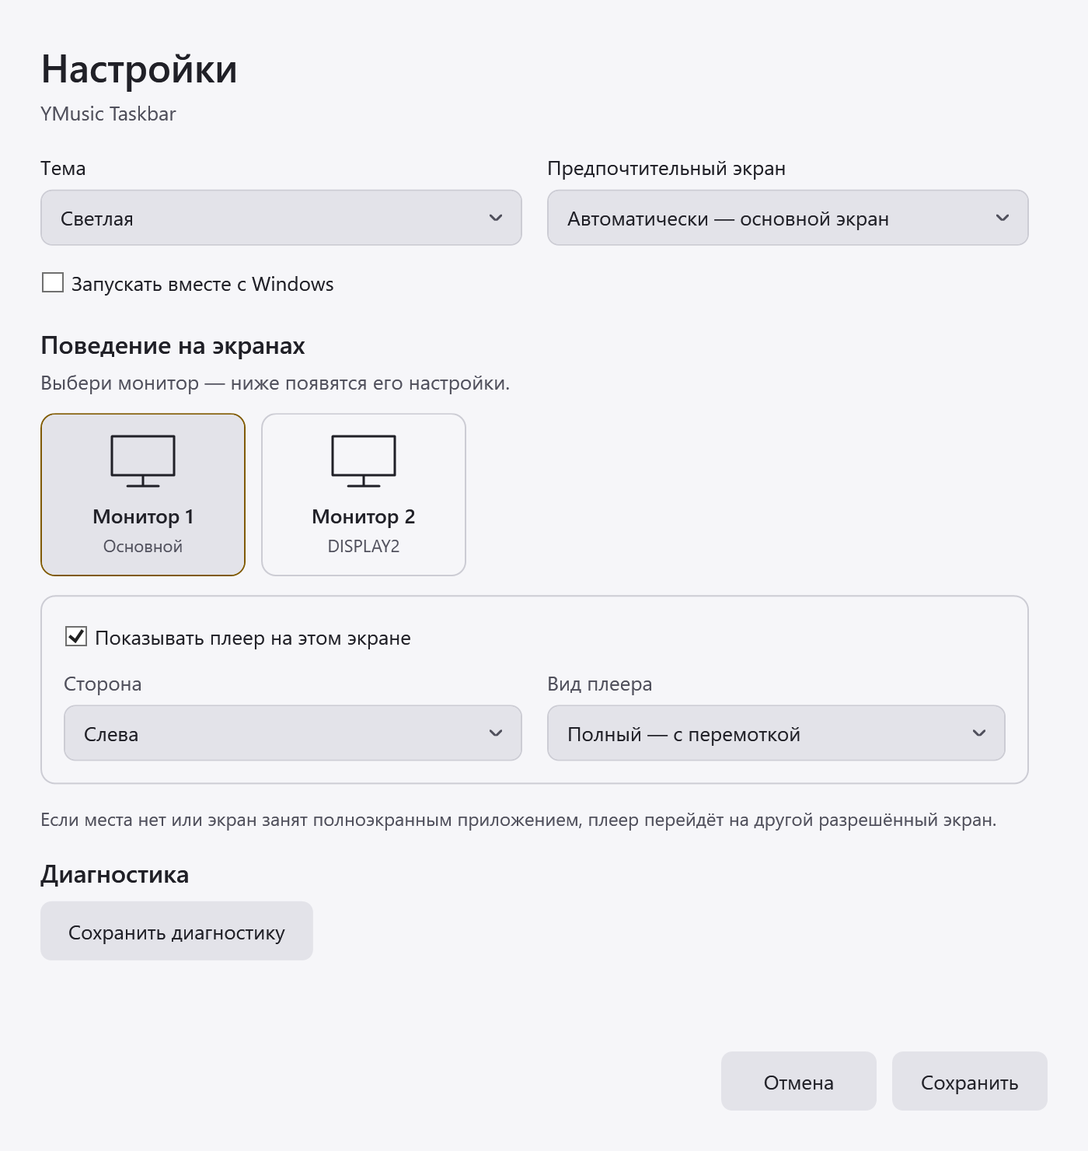
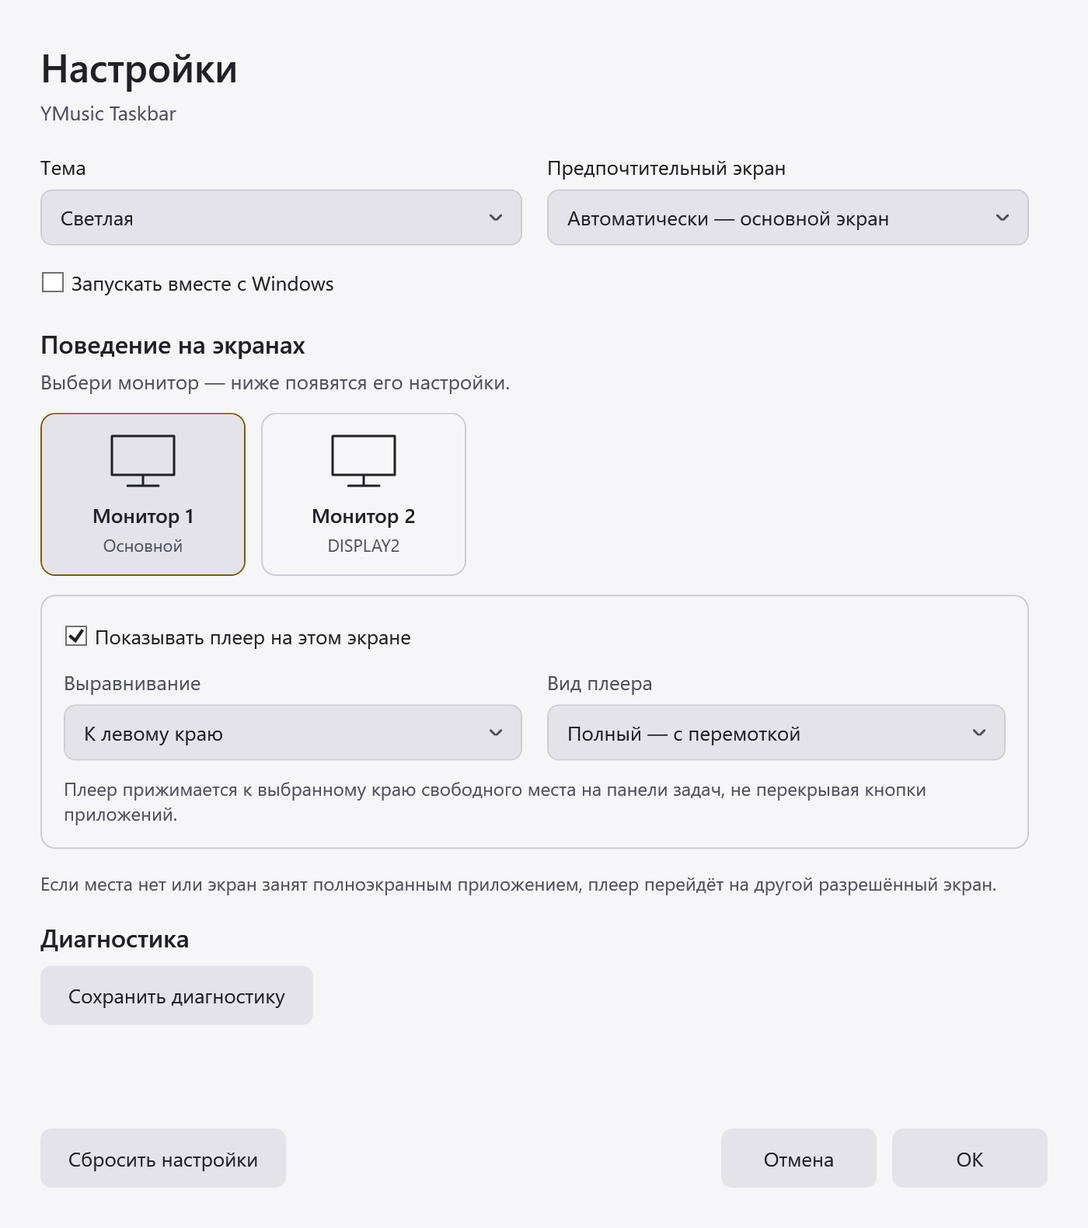
Apply settings immediately with cancel rollback and reset defaults

diff --git a/src/YMusicTaskbar.App/Views/SettingsWindow.xaml b/src/YMusicTaskbar.App/Views/SettingsWindow.xaml
@@ -1,5 +1,5 @@
 <Window x:Class="YMusicTaskbar.SettingsWindow" xmlns="http://schemas.microsoft.com/winfx/2006/xaml/presentation" xmlns:x="http://schemas.microsoft.com/winfx/2006/xaml"
- Title="Настройки — YMusic Taskbar" Width="700" Height="740" MinWidth="520" MinHeight="440" WindowStartupLocation="CenterScreen" ShowInTaskbar="False" Icon="/YMusicTaskbar;component/Assets/app.ico"
+ Title="Настройки — YMusic Taskbar" Width="700" Height="790" MinWidth="520" MinHeight="440" WindowStartupLocation="CenterScreen" ShowInTaskbar="False" Icon="/YMusicTaskbar;component/Assets/app.ico"
  Background="{DynamicResource PlayerSurface}" Foreground="{DynamicResource PlayerText}" FontFamily="Segoe UI" FontSize="13" ToolTipService.IsEnabled="False">
  <Window.Resources><ResourceDictionary><ResourceDictionary.MergedDictionaries><ResourceDictionary Source="/YMusicTaskbar;component/Views/SettingsStyles.xaml"/></ResourceDictionary.MergedDictionaries></ResourceDictionary></Window.Resources>
  <Grid Margin="24"><Grid.RowDefinitions><RowDefinition Height="Auto"/><RowDefinition Height="*"/><RowDefinition Height="Auto"/></Grid.RowDefinitions>
@@ -34,6 +34,6 @@
    <TextBlock Text="Диагностика" FontSize="16" FontWeight="SemiBold" Margin="0,0,0,8"/>
    <Button x:Name="DiagnosticsButton" Content="Сохранить диагностику" HorizontalAlignment="Left" Click="SaveDiagnostics" Margin="0,0,0,6"/>
   </StackPanel></ScrollViewer>
-  <Grid Grid.Row="2" Margin="0,16,0,0"><TextBlock x:Name="ErrorText" Foreground="{DynamicResource PlayerAccent}" TextWrapping="Wrap" Margin="0,0,230,0" VerticalAlignment="Center"/><StackPanel Orientation="Horizontal" HorizontalAlignment="Right"><Button Content="Отмена" IsCancel="True" Click="Cancel" Margin="0,0,10,0"/><Button Content="Сохранить" IsDefault="True" Click="Save"/></StackPanel></Grid>
+  <Grid Grid.Row="2" Margin="0,16,0,0"><Grid.RowDefinitions><RowDefinition Height="Auto"/><RowDefinition Height="Auto"/></Grid.RowDefinitions><TextBlock x:Name="ErrorText" Foreground="{DynamicResource PlayerAccent}" TextWrapping="Wrap" Margin="0,0,0,8" VerticalAlignment="Center"/><StackPanel Grid.Row="1" Orientation="Horizontal" HorizontalAlignment="Right"><Button x:Name="CancelButton" Content="Отмена" IsCancel="True" Click="Cancel" Margin="0,0,10,0"/><Button x:Name="OkButton" Content="OK" IsDefault="True" Click="Save"/></StackPanel><Button Grid.Row="1" x:Name="ResetButton" Content="Сбросить настройки" HorizontalAlignment="Left" VerticalAlignment="Bottom" Click="Reset"/></Grid>
  </Grid>
 </Window>

diff --git a/src/YMusicTaskbar.App/Views/SettingsWindow.xaml.cs b/src/YMusicTaskbar.App/Views/SettingsWindow.xaml.cs
@@ -1,5 +1,6 @@
 using System;
 using System.Collections.Generic;
+using System.ComponentModel;
 using System.Linq;
 using System.Text.Json;
 using System.Threading.Tasks;
@@ -9,51 +10,114 @@ namespace YMusicTaskbar;
 
 public partial class SettingsWindow : Window
 {
-    private readonly Settings draft;
+    private Settings draft;
+    private readonly Settings original;
+    private readonly bool originalStartup;
     private readonly Func<Task> saveDiagnostics;
     private readonly Action<Settings, bool> save;
     private readonly string[] monitors;
     private string? selectedMonitor;
-    private bool loadingProfile;
+    private bool loadingProfile, ready, accepted, changed;
+    private string? appliedState;
+
+    private static Settings Copy(Settings settings) => JsonSerializer.Deserialize<Settings>(JsonSerializer.Serialize(settings))!;
+
     public SettingsWindow(Settings settings, IEnumerable<string> monitors, string? primary, bool startup, Action<Settings, bool> save, Func<Task>? saveDiagnostics = null)
     {
-        draft = JsonSerializer.Deserialize<Settings>(JsonSerializer.Serialize(settings))!;
+        original = Copy(settings); originalStartup = startup; draft = Copy(settings);
         this.saveDiagnostics = saveDiagnostics ?? (() => Task.CompletedTask);
         this.save = save; this.monitors = monitors.Distinct().ToArray();
         InitializeComponent();
-        ThemeChoice.SelectedIndex = (int)draft.Theme;
-        ThemeService.Apply(Resources, draft.Theme);
-        ThemeChoice.SelectionChanged += (_, _) => ThemeService.Apply(Resources, (ThemeMode)ThemeChoice.SelectedIndex);
         PreferredChoice.Items.Add("Автоматически — основной экран");
         foreach (string name in this.monitors) PreferredChoice.Items.Add(name + (name == primary ? " (основной)" : ""));
-        PreferredChoice.SelectedIndex = Math.Max(0, Array.IndexOf(this.monitors, draft.PreferredMonitor) + 1);
-        StartupChoice.IsChecked = startup;
         foreach (string name in this.monitors) draft.Monitors[name] = draft.ProfileFor(name);
         MonitorSelector.ItemsSource = this.monitors.Select((id, index) => new MonitorTile(id, $"Монитор {index + 1}", id == primary ? "Основной" : id.Replace(@"\\.\", ""))).ToArray();
         MonitorSelector.SelectedIndex = Math.Max(0, Array.IndexOf(this.monitors, draft.PreferredMonitor ?? primary));
+        LoadControls(startup);
         ProfileEditor.IsEnabled = this.monitors.Length > 0;
         MaxHeight = Math.Max(MinHeight, SystemParameters.WorkArea.Height - 24);
         Height = Math.Min(Height, MaxHeight);
+        ThemeChoice.SelectionChanged += GeneralChanged;
+        PreferredChoice.SelectionChanged += GeneralChanged;
+        StartupChoice.Checked += GeneralChanged;
+        StartupChoice.Unchecked += GeneralChanged;
+        ready = true;
+        appliedState = StateKey();
     }
-    private void SelectMonitor(object sender, SelectionChangedEventArgs e)
+    private string StateKey() => JsonSerializer.Serialize(draft) + "|" + (StartupChoice.IsChecked == true);
+
+    private void LoadControls(bool startup)
+    {
+        loadingProfile = true;
+        try
+        {
+            ThemeChoice.SelectedIndex = (int)draft.Theme;
+            ThemeService.Apply(Resources, draft.Theme);
+            PreferredChoice.SelectedIndex = Math.Max(0, Array.IndexOf(monitors, draft.PreferredMonitor) + 1);
+            StartupChoice.IsChecked = startup;
+            LoadProfile();
+        }
+        finally { loadingProfile = false; }
+    }
+    private void SelectMonitor(object sender, SelectionChangedEventArgs e) => LoadProfile();
+    private void LoadProfile()
     {
         if (MonitorSelector.SelectedItem is not MonitorTile tile) return;
+        bool wasLoading = loadingProfile;
         selectedMonitor = tile.Id; loadingProfile = true;
-        var profile = draft.ProfileFor(tile.Id);
-        EnabledChoice.IsChecked = profile.Enabled;
-        SideChoice.SelectedIndex = (int)profile.Side;
-        LayoutChoice.SelectedIndex = profile.Compact ? 1 : 0;
-        System.Windows.Automation.AutomationProperties.SetName(SideChoice, "Выравнивание: " + tile.Id);
-        System.Windows.Automation.AutomationProperties.SetName(LayoutChoice, "Вид: " + tile.Id);
-        loadingProfile = false;
+        try
+        {
+            var profile = draft.ProfileFor(tile.Id);
+            EnabledChoice.IsChecked = profile.Enabled;
+            SideChoice.SelectedIndex = (int)profile.Side;
+            LayoutChoice.SelectedIndex = profile.Compact ? 1 : 0;
+            System.Windows.Automation.AutomationProperties.SetName(SideChoice, "Выравнивание: " + tile.Id);
+            System.Windows.Automation.AutomationProperties.SetName(LayoutChoice, "Вид: " + tile.Id);
+        }
+        finally { loadingProfile = wasLoading; }
     }
     private void ProfileChanged(object sender, RoutedEventArgs e)
     {
-        if (loadingProfile || selectedMonitor is null) return;
+        if (!ready || loadingProfile || selectedMonitor is null) return;
         var profile = draft.Monitors[selectedMonitor];
         profile.Enabled = EnabledChoice.IsChecked == true;
         profile.Side = (PlayerSide)Math.Max(0, SideChoice.SelectedIndex);
         profile.Compact = LayoutChoice.SelectedIndex == 1;
+        ApplyLive();
+    }
+    private void GeneralChanged(object sender, RoutedEventArgs e)
+    {
+        if (!ready || loadingProfile) return;
+        ApplyLive();
+    }
+    private bool ApplyLive()
+    {
+        draft.Theme = (ThemeMode)Math.Max(0, ThemeChoice.SelectedIndex);
+        draft.PreferredMonitor = PreferredChoice.SelectedIndex > 0 ? monitors[PreferredChoice.SelectedIndex - 1] : null;
+        ThemeService.Apply(Resources, draft.Theme);
+        if (monitors.Length > 0 && monitors.All(name => !draft.ProfileFor(name).Enabled))
+        { ErrorText.Text = "Выберите хотя бы один экран."; return false; }
+        string state = StateKey();
+        try
+        {
+            if (state != appliedState)
+            {
+                // The runtime owns its copy; later edits must not change it before validation.
+                changed = true;
+                save(Copy(draft), StartupChoice.IsChecked == true);
+                appliedState = state;
+            }
+            ErrorText.Text = "";
+            return true;
+        }
+        catch (Exception exception) { appliedState = null; ErrorText.Text = exception.Message; return false; }
+    }
+    private void Reset(object sender, RoutedEventArgs e)
+    {
+        draft = new Settings();
+        foreach (string monitor in monitors) draft.Monitors[monitor] = draft.ProfileFor(monitor);
+        LoadControls(false);
+        ApplyLive();
     }
     private async void SaveDiagnostics(object sender, RoutedEventArgs e)
     {
@@ -65,10 +129,17 @@ public partial class SettingsWindow : Window
     private void Cancel(object sender, RoutedEventArgs e) => Close();
     private void Save(object sender, RoutedEventArgs e)
     {
-        if (monitors.Length > 0 && monitors.All(name => !draft.ProfileFor(name).Enabled)) { ErrorText.Text = "Выберите хотя бы один экран."; return; }
-        draft.Theme = (ThemeMode)ThemeChoice.SelectedIndex;
-        draft.PreferredMonitor = PreferredChoice.SelectedIndex > 0 ? monitors[PreferredChoice.SelectedIndex - 1] : null;
-        try { save(draft, StartupChoice.IsChecked == true); Close(); }
-        catch (Exception exception) { ErrorText.Text = exception.Message; }
+        if (!ApplyLive()) return;
+        accepted = true;
+        Close();
+    }
+    protected override void OnClosing(CancelEventArgs e)
+    {
+        if (!accepted && changed)
+        {
+            try { save(Copy(original), originalStartup); changed = false; }
+            catch (Exception exception) { ErrorText.Text = "Не удалось вернуть настройки: " + exception.Message; e.Cancel = true; }
+        }
+        base.OnClosing(e);
     }
 }

diff --git a/tests/YMusicTaskbar.App.Tests/SettingsScenarios.cs b/tests/YMusicTaskbar.App.Tests/SettingsScenarios.cs
@@ -1,0 +1,110 @@
+using System.Windows;
+using System.Windows.Controls;
+using YMusicTaskbar;
+
+namespace YMusicTaskbar.AppTests;
+
+internal static class SettingsScenarios
+{
+    public static void Run(Action<bool, string> check)
+    {
+        var original = new Settings { Theme = ThemeMode.Light, PreferredMonitor = "B", Compact = true };
+        original.Monitors["A"] = new MonitorProfile { Side = PlayerSide.Right, Compact = true };
+        original.Monitors["B"] = new MonitorProfile { Side = PlayerSide.Left, Compact = false };
+        Settings? applied = null; bool startup = true; int calls = 0;
+        SettingsWindow NewDialog(bool launch = true) => new(original, new[] { "A", "B" }, "A", launch,
+            (settings, value) => { applied = settings; startup = value; calls++; });
+        T Element<T>(SettingsWindow window, string name) where T : FrameworkElement => (T)window.FindName(name);
+        void Click(SettingsWindow window, string name) => Element<Button>(window, name).RaiseEvent(new RoutedEventArgs(Button.ClickEvent));
+
+        var dialog = NewDialog();
+        check(calls == 0, "Opening settings does not persist or alter startup");
+        Element<ComboBox>(dialog, "ThemeChoice").SelectedIndex = (int)ThemeMode.Dark;
+        check(calls == 1 && applied is { Theme: ThemeMode.Dark }, "Theme change applies before closing settings");
+        Element<CheckBox>(dialog, "StartupChoice").IsChecked = false;
+        check(!startup, "Startup checkbox applies immediately");
+        Element<ComboBox>(dialog, "PreferredChoice").SelectedIndex = 1;
+        check(applied?.PreferredMonitor == "A", "Preferred display changes immediately");
+        var tiles = Element<ListBox>(dialog, "MonitorSelector");
+        int beforeSelection = calls;
+        tiles.SelectedIndex = 0;
+        check(calls == beforeSelection, "Selecting a monitor tile alone does not save settings");
+        Element<ComboBox>(dialog, "SideChoice").SelectedIndex = 0;
+        check(applied?.Monitors["A"].Side == PlayerSide.Left, "Per-monitor alignment applies immediately");
+        var lastValid = applied;
+        Element<CheckBox>(dialog, "EnabledChoice").IsChecked = false;
+        tiles.SelectedIndex = 1;
+        Element<CheckBox>(dialog, "EnabledChoice").IsChecked = false;
+        check(applied?.Monitors["B"].Enabled == true && Element<TextBlock>(dialog, "ErrorText").Text.Length > 0,
+            "Disabling the last display leaves the previous valid runtime settings intact");
+        check(lastValid?.Monitors["A"].Enabled == true, "Later draft mutations never alter previously applied profile objects");
+        Element<CheckBox>(dialog, "EnabledChoice").IsChecked = true;
+        Click(dialog, "CancelButton");
+        check(applied is { Theme: ThemeMode.Light, PreferredMonitor: "B", Compact: true } && startup
+            && applied.Monitors["A"].Side == PlayerSide.Right && applied.Monitors["A"].Enabled,
+            "Cancel restores all opening settings and startup after live edits");
+
+        dialog = NewDialog();
+        Click(dialog, "ResetButton");
+        check(applied is { Theme: ThemeMode.System, PreferredMonitor: null, Compact: false } && !startup
+            && applied.Monitors.Count == 2 && applied.Monitors.Values.All(p => p.Enabled && !p.Compact && p.Side == PlayerSide.Left),
+            "Reset immediately applies default theme, displays, layout, alignment and startup");
+        check(Element<ListBox>(dialog, "MonitorSelector").SelectedIndex == 1 && Element<ComboBox>(dialog, "LayoutChoice").SelectedIndex == 0,
+            "Reset updates selected monitor controls without changing selected tile");
+        dialog.Close();
+        check(applied?.Theme == ThemeMode.Light && applied.PreferredMonitor == "B" && startup,
+            "Closing settings without OK rolls back reset as well as ordinary edits");
+
+        dialog = NewDialog();
+        Element<ComboBox>(dialog, "ThemeChoice").SelectedIndex = (int)ThemeMode.Dark;
+        int beforeOk = calls;
+        Click(dialog, "OkButton");
+        check(applied?.Theme == ThemeMode.Dark && calls == beforeOk, "OK retains live edits without reapplying or rolling back");
+        check(original.Theme == ThemeMode.Light && original.Monitors["A"].Side == PlayerSide.Right,
+            "Live editing and reset preserve caller-owned opening settings");
+
+        int beforeUnchanged = calls;
+        dialog = NewDialog();
+        Click(dialog, "CancelButton");
+        check(calls == beforeUnchanged, "Cancel without edits does not rewrite settings");
+
+        bool failRestore = true, closed = false;
+        dialog = new SettingsWindow(original, new[] { "A", "B" }, "A", true, (settings, value) =>
+        {
+            if (failRestore && settings.Theme == ThemeMode.Light) throw new System.IO.IOException("Restore failed");
+            applied = settings; startup = value;
+        });
+        dialog.Closed += (_, _) => closed = true;
+        Element<ComboBox>(dialog, "ThemeChoice").SelectedIndex = (int)ThemeMode.Dark;
+        Click(dialog, "CancelButton");
+        check(!closed && Element<TextBlock>(dialog, "ErrorText").Text.Contains("Restore failed"),
+            "Rollback failure leaves settings open with a visible error");
+        failRestore = false;
+        Click(dialog, "CancelButton");
+        check(closed && applied?.Theme == ThemeMode.Light && startup, "Cancel retries a failed rollback before closing");
+
+        bool failOnce = true, registered = false;
+        dialog = new SettingsWindow(original, new[] { "A", "B" }, "A", false, (_, value) =>
+        {
+            registered = value;
+            if (failOnce) { failOnce = false; throw new System.IO.IOException("Partial apply failed"); }
+        });
+        Element<CheckBox>(dialog, "StartupChoice").IsChecked = true;
+        Element<CheckBox>(dialog, "StartupChoice").IsChecked = false;
+        check(!registered && Element<TextBlock>(dialog, "ErrorText").Text.Length == 0,
+            "Returning to a prior value after partial apply failure retries the actual change");
+        Click(dialog, "OkButton");
+
+        bool fail = true;
+        dialog = new SettingsWindow(original, new[] { "A", "B" }, "A", true, (settings, value) =>
+        {
+            if (fail) throw new System.IO.IOException("Cannot write settings");
+            applied = settings; startup = value;
+        });
+        Element<ComboBox>(dialog, "ThemeChoice").SelectedIndex = (int)ThemeMode.Dark;
+        check(Element<TextBlock>(dialog, "ErrorText").Text == "Cannot write settings", "Live apply failure remains visible in settings");
+        fail = false;
+        Click(dialog, "OkButton");
+        check(applied?.Theme == ThemeMode.Dark, "OK retries a previously failed live change before accepting");
+    }
+}

diff --git a/tests/YMusicTaskbar.App.Tests/LayoutScenarios.cs b/tests/YMusicTaskbar.App.Tests/LayoutScenarios.cs
@@ -44,7 +44,7 @@ internal static class LayoutScenarios
                 check(((System.Windows.Controls.TextBlock)dialog.FindName("ErrorText")).Text == "diagnostic test" && diagnosticButton.IsEnabled, "Diagnostic failure is displayed and button becomes available again");
                 var choice = (System.Windows.Controls.ComboBox)dialog.FindName("ThemeChoice");
                 choice.SelectedIndex = (int)ThemeMode.Dark;
-                check(settings.Theme == ThemeMode.Light && saved is null, "Settings edits remain isolated until save");
+                check(settings.Theme == ThemeMode.Light && saved is { Theme: ThemeMode.Dark }, "Settings edits apply immediately without mutating the opening snapshot");
                 check(((SolidColorBrush)dialog.Resources["PlayerText"]).Color.R > 200, "Settings theme preview updates immediately");
                 var selector = (System.Windows.Controls.ListBox)dialog.FindName("MonitorSelector");
                 var side = (System.Windows.Controls.ComboBox)dialog.FindName("SideChoice");
@@ -77,8 +77,9 @@ internal static class LayoutScenarios
                 var footer = (System.Windows.Controls.Grid)((System.Windows.Controls.Grid)dialog.Content).Children[2];
                 var buttons = (System.Windows.Controls.StackPanel)footer.Children[1];
                 ((System.Windows.Controls.Button)buttons.Children[1]).RaiseEvent(new RoutedEventArgs(System.Windows.Controls.Button.ClickEvent));
-                check(saved is { Theme: ThemeMode.Dark } && launch && saved.Monitors["Screen A"].Compact && !saved.Monitors["Screen B"].Compact && !saved.Monitors["Screen C"].Enabled && saved.Monitors["Screen C"].Side == PlayerSide.Right, "Save submits theme, startup and independent monitor profiles");
+                check(saved is { Theme: ThemeMode.Dark } && launch && saved.Monitors["Screen A"].Compact && !saved.Monitors["Screen B"].Compact && !saved.Monitors["Screen C"].Enabled && saved.Monitors["Screen C"].Side == PlayerSide.Right, "OK retains immediately applied theme, startup and independent monitor profiles");
                 check(settings.Monitors.Count == 1 && settings.Monitors["Screen A"].Compact, "Editing clone does not mutate original profiles");
+                SettingsScenarios.Run(check);
                 ThemeService.Apply(window.Resources, ThemeMode.Light);
                 check(((SolidColorBrush)((System.Windows.Controls.TextBlock)window.FindName("Track")).Foreground).Color.R < 80, "Light player theme uses dark readable text");
                 check(((SolidColorBrush)((System.Windows.Shapes.Path)window.FindName("PlayIcon")).Fill).Color.R < 180, "Light accent is dark enough for a light taskbar");

diff --git a/src/YMusicTaskbar.App/Hosting/PlayerRuntime.cs b/src/YMusicTaskbar.App/Hosting/PlayerRuntime.cs
@@ -79,7 +79,7 @@ internal sealed class PlayerRuntime : IDisposable
         settingsWindow = new SettingsWindow(settings, System.Windows.Forms.Screen.AllScreens.Select(s => s.DeviceName),
             System.Windows.Forms.Screen.PrimaryScreen?.DeviceName, startup.Enabled, (draft, launch) =>
             {
-                startup.SetEnabled(launch);
+                if (startup.Enabled != launch) startup.SetEnabled(launch);
                 store.Save(draft);
                 settings.Theme = draft.Theme; settings.PreferredMonitor = draft.PreferredMonitor;
                 settings.Compact = draft.Compact; settings.Monitors = draft.Monitors;

diff --git a/USAGE.md b/USAGE.md
@@ -23,9 +23,9 @@
 - **Для каждого экрана:** слева / справа и полный / компактный вид. Компактный режим убирает дорожку перемотки.
 - **Автозапуск:** необязательный запуск вместе с Windows.
 
-Выбирайте экран в ряду плиток с иконками мониторов: ниже отображаются только его параметры. Переключение плиток сохраняет выбранные значения до применения.
+Выбирайте экран в ряду плиток с иконками мониторов: ниже отображаются только его параметры. Настройки каждого экрана применяются сразу.
 
-Нажмите **«Сохранить»**, чтобы применить изменения. **«Отмена»** их отбрасывает.
+**OK** оставляет изменения и закрывает окно. **«Отмена»** или закрытие крестиком возвращает настройки на момент открытия окна. **«Сбросить настройки»** сразу включает значения по умолчанию, включая отключение автозапуска; сброс тоже можно отменить.
 
 Сторона выбирается внутри свободной области панели задач. При появлении новых кнопок плеер сдвигается или сужается. Если места нет или экран занят полноэкранным приложением, он переходит на другой разрешённый экран либо скрывается. Поддерживается горизонтальная панель задач; при маленьких значках используйте компактный режим.
 

diff --git a/CHANGELOG.md b/CHANGELOG.md
@@ -2,6 +2,8 @@
 
 ## 0.5.0
 
+- Настройки применяются сразу; OK оставляет изменения, Отмена возвращает прежние значения. Добавлен сброс настроек.
+
 - Выбор экрана плитками и один блок настроек выбранного монитора.
 - Новый вид выпадающих списков и полос прокрутки.
 - В полном режиме название песни и исполнитель находятся в одной строке с переносом при нехватке места.
